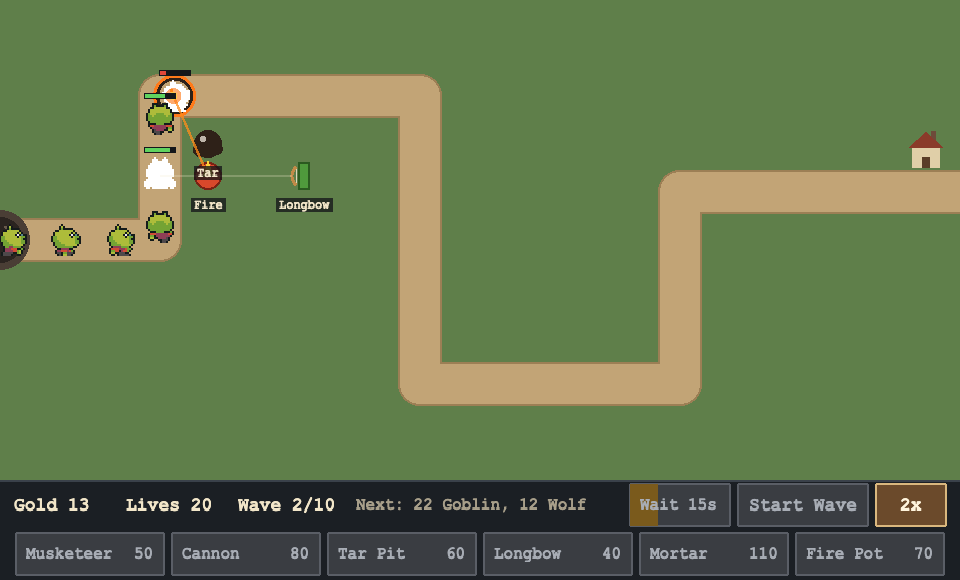
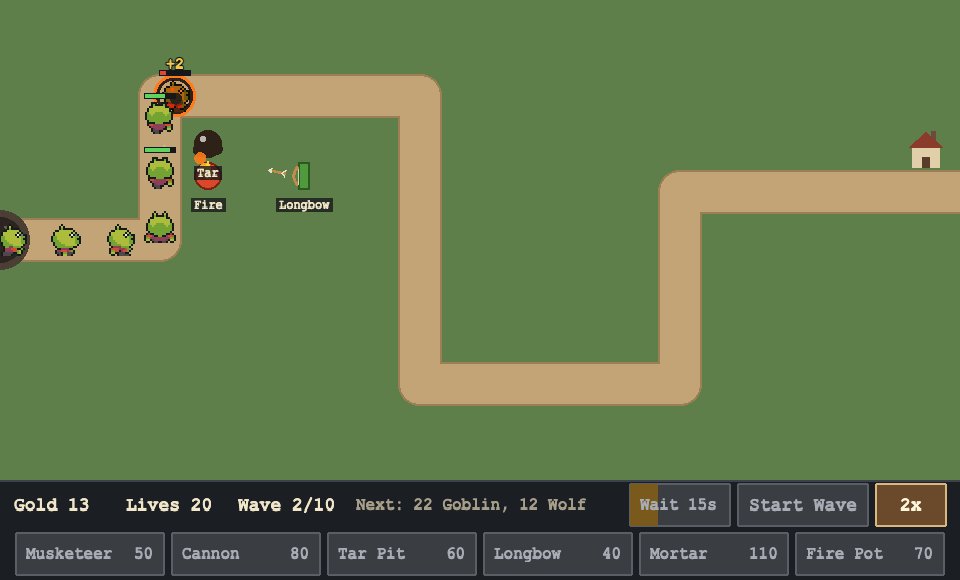
Effects: larger projectiles, clearer mortar shadow and exit glow; re-record the demo

Changed region(s): [[0.125, 0.0931, 0.2188, 0.3414], [0.25, 0.2793, 0.3125, 0.3103], [0.1562, 0.3724, 0.1875, 0.4345]]

diff --git a/src/game/fx/effects.ts b/src/game/fx/effects.ts
@@ -564,9 +564,9 @@ export class Effects {
     for (const p of this.projectiles) if (p) drawProjectile(g, p, (now - p.bornMs) / p.travelMs);
     const exit = flashFade(this.realMs - this.exitAt, EXIT_FLASH_MS);
     if (exit > 0) {
-      g.fillStyle(COLORS.exitGlow, 0.35 * exit);
+      g.fillStyle(COLORS.exitGlow, 0.5 * exit);
       g.fillCircle(this.cottage.x, this.cottage.y, 30);
-      g.lineStyle(3, COLORS.exitGlow, 0.9 * exit);
+      g.lineStyle(4, COLORS.exitGlow, exit);
       g.strokeCircle(this.cottage.x, this.cottage.y, 30 + 10 * (1 - exit));
     }
   }
@@ -668,33 +668,34 @@ function drawProjectile(g: Phaser.GameObjects.Graphics, p: Projectile, t: number
   const dy = Math.sin(a.angle);
   switch (p.tower) {
     case 'musketeer':
-      g.lineStyle(2, COLORS.muzzleFlash, 0.6);
-      g.lineBetween(a.x - dx * 8, a.y - dy * 8, a.x, a.y);
-      g.fillStyle(COLORS.musketBall, 1).fillCircle(a.x, a.y, 2.5);
+      g.lineStyle(2.5, COLORS.muzzleFlash, 0.75);
+      g.lineBetween(a.x - dx * 12, a.y - dy * 12, a.x, a.y);
+      g.fillStyle(COLORS.musketBall, 1).fillCircle(a.x, a.y, 3);
       break;
     case 'longbow':
-      g.lineStyle(2, COLORS.arrowShaft, 1);
-      g.lineBetween(a.x - dx * 11, a.y - dy * 11, a.x, a.y);
+      g.lineStyle(2.5, COLORS.arrowShaft, 1);
+      g.lineBetween(a.x - dx * 14, a.y - dy * 14, a.x, a.y);
       g.lineStyle(1.5, COLORS.arrowHead, 1);
-      g.lineBetween(a.x - dx * 11 - dy * 3, a.y - dy * 11 + dx * 3, a.x - dx * 8, a.y - dy * 8);
-      g.lineBetween(a.x - dx * 11 + dy * 3, a.y - dy * 11 - dx * 3, a.x - dx * 8, a.y - dy * 8);
-      g.fillStyle(COLORS.arrowHead, 1).fillTriangle(a.x + dx * 3, a.y + dy * 3, a.x - dy * 2.5, a.y + dx * 2.5, a.x + dy * 2.5, a.y - dx * 2.5);
+      g.lineBetween(a.x - dx * 14 - dy * 3.5, a.y - dy * 14 + dx * 3.5, a.x - dx * 10, a.y - dy * 10);
+      g.lineBetween(a.x - dx * 14 + dy * 3.5, a.y - dy * 14 - dx * 3.5, a.x - dx * 10, a.y - dy * 10);
+      g.fillStyle(COLORS.arrowHead, 1).fillTriangle(a.x + dx * 4, a.y + dy * 4, a.x - dy * 3, a.y + dx * 3, a.x + dy * 3, a.y - dx * 3);
       break;
     case 'cannon':
       g.fillStyle(COLORS.shellShadow, 0.22).fillEllipse(a.groundX, a.groundY + 2, 8, 4);
-      g.fillStyle(COLORS.cannonBall, 1).fillCircle(a.x, a.y, 4.5);
+      g.fillStyle(COLORS.cannonBall, 1).fillCircle(a.x, a.y, 5.5);
+      g.fillStyle(COLORS.arrowHead, 0.6).fillCircle(a.x - 1.5, a.y - 1.5, 1.5);
       break;
     case 'mortar': {
       const lift = a.groundY - a.y;
       const high = p.height > 0 ? lift / p.height : 0;
-      g.fillStyle(COLORS.shellShadow, 0.3 - 0.15 * high).fillEllipse(a.groundX, a.groundY + 2, 10 - 4 * high, 5 - 2 * high);
+      g.fillStyle(COLORS.shellShadow, 0.4 - 0.1 * high).fillEllipse(a.groundX, a.groundY + 2, 14 - 5 * high, 7 - 2.5 * high);
       g.fillStyle(COLORS.mortarShell, 1).fillCircle(a.x, a.y, 5 + 2 * high);
       g.fillStyle(COLORS.muzzleFlash, 0.8).fillCircle(a.x - dx * 4, a.y - dy * 4, 1.5);
       break;
     }
     case 'tarpit':
       g.fillStyle(COLORS.tarSplat, 0.6).fillCircle(a.x - dx * 6, a.y - dy * 6, 2.5);
-      g.fillStyle(COLORS.tarSplat, 1).fillCircle(a.x, a.y, 5);
+      g.fillStyle(COLORS.tarSplat, 1).fillCircle(a.x, a.y, 6);
       g.fillStyle(COLORS.tarpitHighlight, 0.8).fillCircle(a.x - 1.5, a.y - 1.5, 1.5);
       break;
     case 'firepot': {
